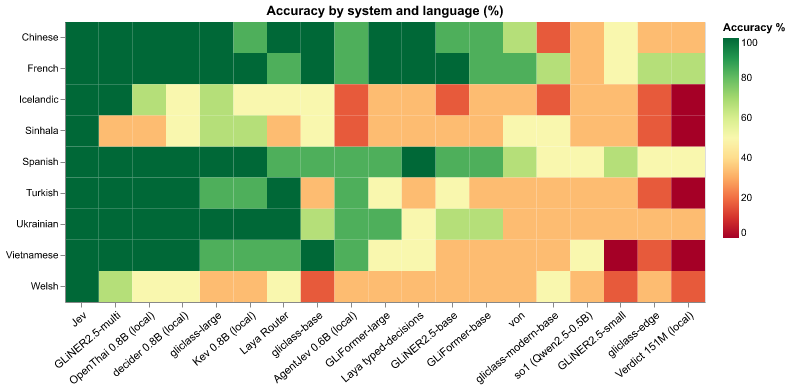
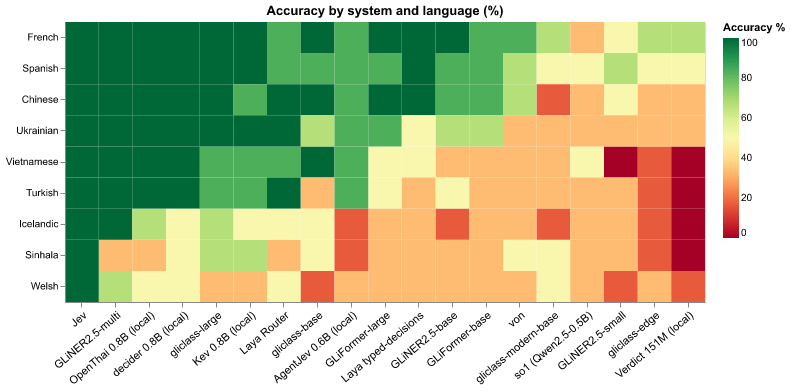
fix(ui): sort the language axis by support, too
The multilingual heatmap sorted only its System axis (descending by
mean accuracy); languages kept the results-JSON insertion order. Sort
the language axis the same way — descending by mean accuracy across
systems — and give the app's 'Accuracy by language' table the same
column order. Regenerated ml_heatmap.png (all other charts identical):
French and Spanish now lead, Welsh/Icelandic/Sinhala sit at the bottom.

diff --git a/app.py b/app.py
@@ -297,7 +297,9 @@ def accuracy_heatmap(df: pd.DataFrame, title: str):
                     .mean().sort_values(ascending=False).index.tolist(),
                     title=None, axis=alt.Axis(labelAngle=-40,
                                               labelFontSize=11)),
-            y=alt.Y("Language:N", title=None),
+            y=alt.Y("Language:N", sort=df.groupby("Language")["Accuracy %"]
+                    .mean().sort_values(ascending=False).index.tolist(),
+                    title=None),
             color=alt.Color("Accuracy %:Q", scale=alt.Scale(
                 domain=[0, 100], scheme="redyellowgreen"),
                 legend=alt.Legend(format=".0f")),
@@ -469,15 +471,17 @@ def build_multilingual_tab():
                 "medium: Vietnamese, Turkish, Ukrainian · rare: Sinhala, "
                 "Icelandic, Welsh. Color in the heatmap always spans "
                 "0-100%.")
-    order = (pd.DataFrame({s: [v[l] for l in langs]
-                           for s, v in by_language.items()},
-                          index=langs).mean()
-             .sort_values(ascending=False).index.tolist())
+    frame = pd.DataFrame({s: [v[l] for l in langs]
+                          for s, v in by_language.items()},
+                         index=langs)
+    order = frame.mean().sort_values(ascending=False).index.tolist()
+    lang_order = (frame.mean(axis=1).sort_values(ascending=False)
+                  .index.tolist())
     rows = [[s] + [f"{by_language[s][lang] * 100:.0f}"
-                   for lang in langs]
+                   for lang in lang_order]
             + [f"{sum(by_language[s][l] for l in langs) / len(langs) * 100:.0f}"]
             for s in order]
-    gr.DataFrame(rows, headers=["System"] + langs + ["All"],
+    gr.DataFrame(rows, headers=["System"] + lang_order + ["All"],
                  datatype=["str"] * (len(langs) + 2),
                  label="Accuracy by language (%)")
     heat = pd.DataFrame([{"System": s, "Language": lang,
